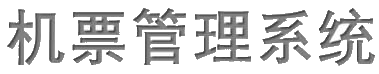
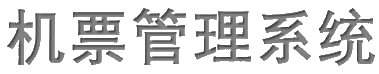
Add files via upload

diff --git a/project/WebContent/menu.html b/project/WebContent/menu.html
@@ -3,27 +3,16 @@
 	<head>
 		<meta charset="utf-8">
 		<title></title>
-		<style>
-			li{
-				margin-bottom: 20px;
-				list-style: none;
-			}
-			ul{
-				height: 100%;
-			}
-			.menu{
-				margin-top: auto;
-				height: auto;
-			}
-		</style>
+		<link rel="stylesheet" type="text/css" href="css/menu.css"/>
+		
 	</head>
 	<body>
-		<div class="menu">
+		<div id="menu">
 			<ul>
-				<li><a href="">首页</a></li>
-				<li><a href="">机票信息</a></li>
-				<li><a href="">我的收藏</a></li>
-				<li><a href="">关于</a></li>
+				<li><a href="flights.jsp" target="frame_main"><input type="button" name="buttons" id="buttons" value="首页" /></a></li>
+				<li><a href="flights.jsp" target="frame_main"><input type="button" name="buttons" id="buttons" value="机票信息" /></a></li>
+				<li><a href="flights.jsp" target="frame_main"><input type="button" name="buttons" id="buttons" value="我的收藏" /></a></li>
+				<li><a href="flights.jsp" target="frame_main"><input type="button" name="buttons" id="buttons" value="关于" /></a></li>
 			</ul>
 		</div>
 		

diff --git a/project/WebContent/login.html b/project/WebContent/login.html
@@ -1,0 +1,25 @@
+<!DOCTYPE html>
+<html>
+	<head>
+		<meta charset="utf-8">
+		<title>登陆</title>
+		<link rel="stylesheet" type="text/css" href="css/login.css"/>
+	</head>
+	<body>
+		<div id="head">
+			<img src="img/title.png"/>
+		</div>
+		<div id="body">
+			
+			<form action="/project/user" method="POST">
+				<b id="wrong">您输入的用户名或密码有误，请重新输入！</b><br />
+				<input type="hidden" name="type" value="login"/>
+				用户名：<input type="text" name="uname" id="uname"/><br />
+				密码&nbsp;&nbsp;&nbsp;：<input type="password" name="pwd" id="pwd"/><br />
+				<input type="submit" value="登陆" id="submit"/><br />
+				<a href="/project/register.jsp">注册新用户</a>
+			</form>
+		
+		</div>
+	</body>
+</html>

diff --git a/project/WebContent/main.html b/project/WebContent/main.html
@@ -3,12 +3,17 @@
 	<head>
 		<meta charset="utf-8" />
 		<title>机票管理系统</title>
+		<style type="text/css">
+			*{
+				background-color: lightgray;
+			}
+		</style>
 	</head>
-	<frameset rows="15%,70%,15%">
+	<frameset rows="15%,70%,15%" noresize="norsize" frameborder="0">
 		<frame src="head.html"/>
 		<frameset cols="8%,92%">
 			<frame src="menu.html"/>
-			<frame src="flights.jsp"/>
+			<frame src="flights.jsp" name="frame_main"/>
 		</frameset>
 		<frame src="bottom.html"/>
 	</frameset>

diff --git a/project/WebContent/bottom.html b/project/WebContent/bottom.html
@@ -6,15 +6,25 @@
 		<style type="text/css">
 			.bottom{
 				text-align: center;
+				width: 98%;
+				height: 98%;
 			}
 			#intro{
 				color: gray;
 				font-size: 10px;
 			}
+			*{
+				margin: 0px;
+			}
+			body,html{
+				width: 100%;
+				height: 100%;
+			}
 		</style>
 	</head>
 	<body>
 		<div class="bottom">
+			<hr/>
 			<p id="intro">电子科技大学</p>
 			<p id="intro" style="font-size: 5px;">周在磊  向阳鑫  赵思凡  陈淇  宋文起  温瑞林</p>
 		</div>

diff --git a/project/WebContent/css/menu.css b/project/WebContent/css/menu.css
@@ -1,0 +1,36 @@
+li{
+	margin-bottom: 20px;
+	list-style: none;
+}
+ul{
+	height: 100%;
+}
+#menu{
+	text-align: center;
+	height: auto;
+	width: 98%;
+	height: 99%;
+	position: relative;
+	border: solid #AAAAAA 1px;
+}
+#menu ul {
+	position: relative;
+	left: -20%;
+}
+body,html{
+	width: 100%;
+	height:100%;
+	
+}
+*{
+	margin: 0px;
+	background-color: #DDDDDD;
+	
+}
+#buttons{
+	height: 41px;
+	width: 80px;
+	margin-top: 20px;
+	background-color: gray;
+	color: white;
+}

diff --git a/project/WebContent/css/flights.css b/project/WebContent/css/flights.css
@@ -1,0 +1,35 @@
+*{
+	margin: 0px;
+}
+body,html{
+	width: 100%;
+	height: 100%;
+}
+#div1{
+	text-align: center;
+	width: 100%;
+	height: 100%;
+	position: relative;
+}
+#flights,#selects{
+	width: 100%;
+	text-align: center;
+	
+}
+#flights{
+	position: relative;
+	top: 10px;
+}
+#selects{
+	position: absolute;
+	bottom: 10px;
+}
+table,td,th{
+	border-collapse: collapse;
+	border: solid black 1px;
+}
+table{
+	width: 70%;
+	margin: 0 auto;
+	position: relative;
+}

diff --git a/project/WebContent/head.html b/project/WebContent/head.html
@@ -5,13 +5,16 @@
 		<title></title>
 	</head>
 	<style type="text/css">
-		.head{
+		#head{
 			text-align: center;
+		}
+		*{
+			background-color: lavender;
 		}
 	</style>
 	<body>
-		<div class="head">
-			<img src="img/title.jpg"/>
+		<div id="head">
+			<img src="img/title.png"/>
 		</div>
 		
 	</body>
